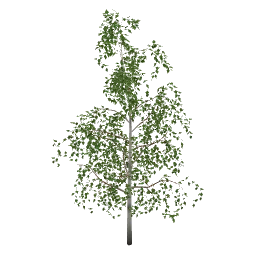
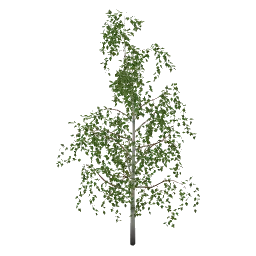
feat(templates): the sapling's hanging twigs arch over near the branch and hang straight below
The gravity of the twigs is strong in their first third and falls as
1/alpha after it, with a linear bend, so the whole turn happens near the
branch and the rest of the twig hangs straight instead of curling into a
hook at its tip.

Changed region(s): [[0.1875, 0.0312, 0.8125, 0.9688]]

diff --git a/docs/PLANT_TEMPLATES.md b/docs/PLANT_TEMPLATES.md
@@ -320,7 +320,7 @@ Family Betulaceae.
 
 **Structure:** A young birch has a slender, straight trunk with a central leader all the way to the top (the crown is _excurrent_). The open, narrow crown is ovate to conical and you can see through it. The branches are thin and alternate in a spiral. They rise at 0.52–0.87 rad and arch out at the tips. The fine twigs are pendulous, which gives the species its name: from the outer part of every branch thin red-brown long shoots of 20–60 cm arch out and then hang straight down like strings, a fringe under each branch even on a sapling, a curtain on an older tree. Saplings differ a lot: some are narrow with short steep branches, others broad and already weeping. The leaves are small, 3–7 cm, on 1.5–3 cm petioles. They are triangular-ovate to diamond-shaped with a broad wedge-shaped base, a long pointed tip and a doubly serrate margin. They are spread loosely along the twigs.
 
-**Template:** One `habit` per seed (a `random` with _once_, uniform) goes from a narrow sapling with short, steep branches and short curtains (0) to a broad one that already weeps (1): it sets the height (2 to 2.9 m), the length of the branches, how steeply they rise, how far their ends arch over, the length of the hanging twigs and how many there are. The trunk is straight with little noise and slender (0.029 thick for a height of 2 to 2.9). It carries 11–19 branches (`random_int`) from 30% to 97% at 2.3998 rad. `alpha -> curve` shapes the crown: the branches are longest a little below the middle and get much shorter to the top, and they rise at 38° from the perpendicular low on the trunk and 62° at the top (about 30–50° from the trunk), plus 8° to −14° by the habit and ±6° at random. A gravity of 0.25–0.75 by the habit arches their ends. The fine twigs are the long shoots that hang from every branch. 9–16 per branch, fewer on the short branches high up (a `round` of a `random` times curves of _parent position_ and the habit), they start at a quarter of the branch, lean out toward its tip at 0.55 rad and are thin (0.22 of the branch). They are longest on the outer part of the branch and on the low branches, 0.5 to 1 times as long by the habit. A `gravity` with `elasticity` 0.05 (a rope) lets them fall straight down like strings, and its `strength` comes from a `path_info` _length_ through a curve, so a long twig hangs (1.8) and a short one at the top only droops (0.5). A weak `noise` waves them. Each twig has 12–18 leaves at the golden angle from its base to its tip, tilted 0.75 rad toward the tip, so they hang along it. The branches grow from the base of the trunk up, the twigs along each branch from its base to its tip, and every leaf unfolds at its own time behind the tip of its twig. The leaves are vein leaves of `leaf_surface` in the group "Birch leaf" (see Vein leaves as a node group). The first quarter of the midrib is a thin petiole. Above it 6–9 pairs of nearly opposite side veins run at about 0.61 rad to the margin, long at the base and short at the tip, so the blade is rhombic to triangular, broadest a third of the way up, with a broad wedge-shaped base and a long pointed tip. A saw `wave` cuts 26 teeth along each side, and the side veins that end in the margin make larger teeth between them, so the margin is doubly serrate. The group makes 4 variants that differ in the number, length and angle of the side veins and in the depth of the teeth. A `deform` curls each leaf into a shallow channel and bends it down a little. The template sets `resolution.leaf` to 40.
+**Template:** One `habit` per seed (a `random` with _once_, uniform) goes from a narrow sapling with short, steep branches and short curtains (0) to a broad one that already weeps (1): it sets the height (2 to 2.9 m), the length of the branches, how steeply they rise, how far their ends arch over, the length of the hanging twigs and how many there are. The trunk is straight with little noise and slender (0.029 thick for a height of 2 to 2.9). It carries 11–19 branches (`random_int`) from 30% to 97% at 2.3998 rad. `alpha -> curve` shapes the crown: the branches are longest a little below the middle and get much shorter to the top, and they rise at 38° from the perpendicular low on the trunk and 62° at the top (about 30–50° from the trunk), plus 8° to −14° by the habit and ±6° at random. A gravity of 0.25–0.75 by the habit arches their ends. The fine twigs are the long shoots that hang from every branch. 9–16 per branch, fewer on the short branches high up (a `round` of a `random` times curves of _parent position_ and the habit), they start at a quarter of the branch, lean out toward its tip at 0.55 rad and are thin (0.22 of the branch). They are longest on the outer part of the branch and on the low branches, 0.5 to 1 times as long by the habit. A `gravity` lets them fall down like strings. Its `strength` is a `path_info` _length_ through a curve (a long twig hangs, a short one at the top only droops) times a curve of alpha that is high in the first third of the twig and falls as 1/alpha after it: with `elasticity` 0.125 the bend grows linearly with alpha, so the twig arches over near the branch and hangs straight below. Turned past the vertical, a path bends back up, so the bend stays at about 110°. A weak `noise` waves them. Each twig has 12–18 leaves at the golden angle from its base to its tip, tilted 0.75 rad toward the tip, so they hang along it. The branches grow from the base of the trunk up, the twigs along each branch from its base to its tip, and every leaf unfolds at its own time behind the tip of its twig. The leaves are vein leaves of `leaf_surface` in the group "Birch leaf" (see Vein leaves as a node group). The first quarter of the midrib is a thin petiole. Above it 6–9 pairs of nearly opposite side veins run at about 0.61 rad to the margin, long at the base and short at the tip, so the blade is rhombic to triangular, broadest a third of the way up, with a broad wedge-shaped base and a long pointed tip. A saw `wave` cuts 26 teeth along each side, and the side veins that end in the margin make larger teeth between them, so the margin is doubly serrate. The group makes 4 variants that differ in the number, length and angle of the side veins and in the depth of the teeth. A `deform` curls each leaf into a shallow channel and bends it down a little. The template sets `resolution.leaf` to 40.
 
 **Colours:** The trunk is the white bark of a birch, dark and furrowed at its foot, with a few dark marks from a curve of `alpha`. The branches are whitish at the base and red-brown toward their tips, the twigs red-brown. The blade is one green per seed, darker at the base of half of the leaf variants and lighter toward the tip of the others, with a pale midrib and fainter side veins from `leaf_surface.color`.
 
